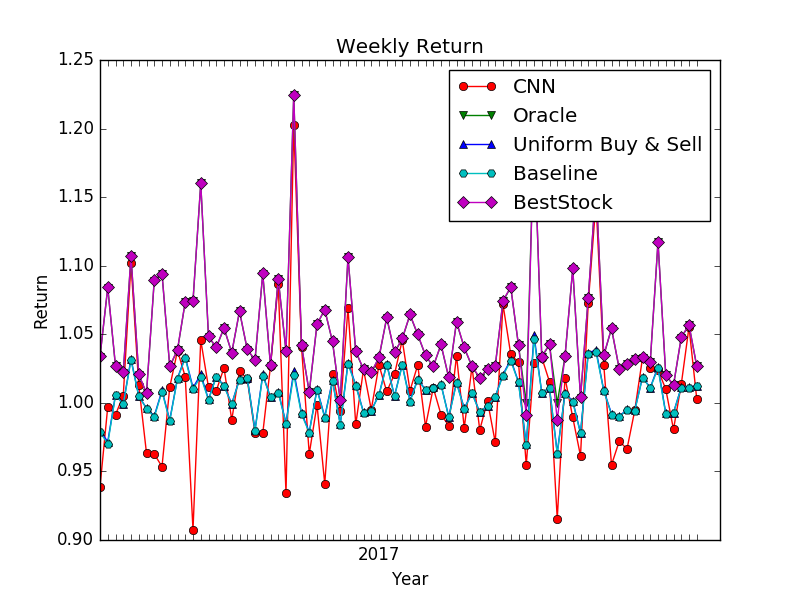
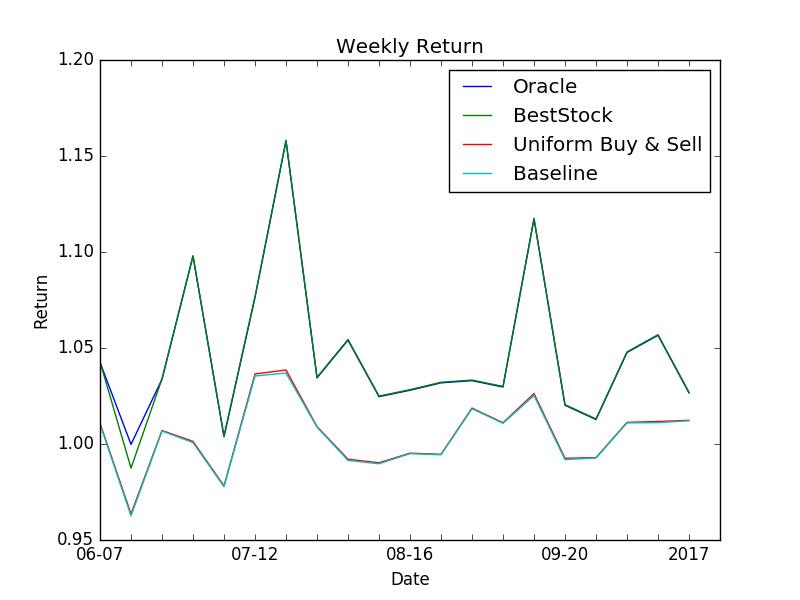
adjust xticks

diff --git a/utils/plotAndEval.py b/utils/plotAndEval.py
@@ -36,35 +36,41 @@ class plotEval:
 
 
 	def generatePlot(self):
-		# Find the right place to put the year labels '20xx' 
+		# Find the right place to put the year labels '20xx'
+		# Show some of the dates as xticks (every 10)
 		year = self.startYear + 1
 		year_idx = {}
+		date_idx = {}
 		for idx, date in enumerate(self.date):
+			if idx % 5 == 1:
+				date_idx[date[0][5:]] = idx - 1
 			if year <= 2017:
 				if int(date[0][0:4]) == year:
 					year_idx[str(year)] = idx - 1
 					year += 1
-			else:
-				break
+			
 
 		dateLabel = ['' for i in xrange(len(self.date))]
+		
+		for date_i in date_idx.keys():
+			dateLabel[date_idx[date_i]] = date_i
 		for year in year_idx.keys():
 			dateLabel[year_idx[year]] = year
+		
 		x = xrange(len(self.date))
 		# Do the plotting
 		# Plot weekly return
-		style = ['ro-', 'gv-', 'b^-', 'cH-', 'mD-', 'kh-', 'yp-']
+		#style = ['ro-', 'gv-', 'b^-', 'cH-', 'mD-', 'kh-', 'yp-']
 		legend_1 = []
 		style_i = 0
-		for label in self.returns.keys():
-			plt.plot(x,self.returns[label],style[style_i])
+		for label_i in self.returns.keys():
+			plt.plot(x,self.returns[label_i],'-', label = label_i)
 			style_i += 1
-			legend_1.append(label)
 
 		plt.xticks(x, dateLabel)
 		plt.title('Weekly Return')
-		plt.legend(legend_1)
-		plt.xlabel('Year')
+		plt.legend(loc = 'upper right')
+		plt.xlabel('Date')
 		plt.ylabel('Return')
 		plt.savefig('results/Figures/Weekly_Re')
 		plt.show()
@@ -72,16 +78,15 @@ class plotEval:
 		# plot (log) accumulated return
 		legend_2 = []
 		style_i = 0
-		for label in self.returns.keys():
-			accumReturn = accum(self.returns[label])
-			plt.plot(x,accumReturn,style[style_i])
+		for label_i in self.returns.keys():
+			accumReturn = accum(self.returns[label_i])
+			plt.plot(x,accumReturn,'-', label = label_i)
 			style_i += 1
-			legend_2.append(label)
 
 		plt.xticks(x, dateLabel)
 		plt.title('Weekly Accumulated Log Return')
-		plt.legend(legend_2)
-		plt.xlabel('Year')
+		plt.legend(loc = 'upper left')
+		plt.xlabel('Date')
 		plt.ylabel('Accumulated Log Return')
 		plt.savefig('results/Figures/Weekly_Re_Accum_Log')
 		plt.show()

diff --git a/fianlPlot.py b/fianlPlot.py
@@ -3,22 +3,29 @@ import EigenPortfolio as ep
 import bestStock as bs
 import uniformBuySell as ubs
 from utils import plotAndEval as pe
+import TestingData as td
+import numpy as np
 
-
- baselineGrowthRates = 1.0 + ep.baseline(stockPrice, TestTimeIndex, baselineTransCostParams)
-        oracleGrowthRates = np.array(oc.solveOracle(stockPrice, 10000, transCostParams['c'], transCostParams['c0'])) + 1.0
-        bsGrowthRates = np.array(bs.bestStock(stockPrice)) + 1.0
-        ubsGrowthRates = np.array(ubs.ubs(stockPrice)) + 1.0
-        growthRates = growthRates[-len(baselineGrowthRates):]
-        totalGR = du.prod(growthRates)
-        baselineTotalGR = du.prod(baselineGrowthRates)
+def main():
+        TestDate, TestReturn, stockPrice, TestTimeIndex = td.get_testing_data()
+        c = 0.0001
+        D = 10
+        transCostParams = {
+        'c': np.array([ [c] for _ in range(D) ]),
+        'c0': c
+        }
+        baselineTransCostParams = np.zeros(D + 1) + c
+        baselineGrowthRates = 1.0 + ep.baseline(stockPrice, TestTimeIndex, baselineTransCostParams)
+        oracleGrowthRates = 1.0 + np.array(oc.solveOracle(stockPrice, 10000, transCostParams['c'], transCostParams['c0']))
+        bsGrowthRates = 1.0 + np.array(bs.bestStock(stockPrice))
+        ubsGrowthRates = 1.0 + np.array(ubs.ubs(stockPrice))
         plotE = pe.plotEval(TestDate, 2016)
         plotE.addReturn(baselineGrowthRates, 'Baseline')
-        plotE.addReturn(growthRates, 'CNN')
         plotE.addReturn(oracleGrowthRates, 'Oracle')
         plotE.addReturn(bsGrowthRates, 'BestStock')
         plotE.addReturn(ubsGrowthRates,'Uniform Buy & Sell')
         plotE.generatePlot()
-        logger.info('model total growth rate in testing data: '+ str(totalGR))
-        logger.info('baseline total growth rate: '+str(baselineTotalGR))
-        logger.info('')
+
+
+if __name__=='__main__':
+    main()

diff --git a/TestingData.py b/TestingData.py
@@ -27,4 +27,4 @@ def get_testing_data():
     stockReturn  = du.logReturn(stockPrice)
     TestReturn = [stockReturn[i-1] for i in TestTimeIndex]
 
-    return TestDate, TestReturn
+    return TestDate, TestReturn, stockPrice, TestTimeIndex
